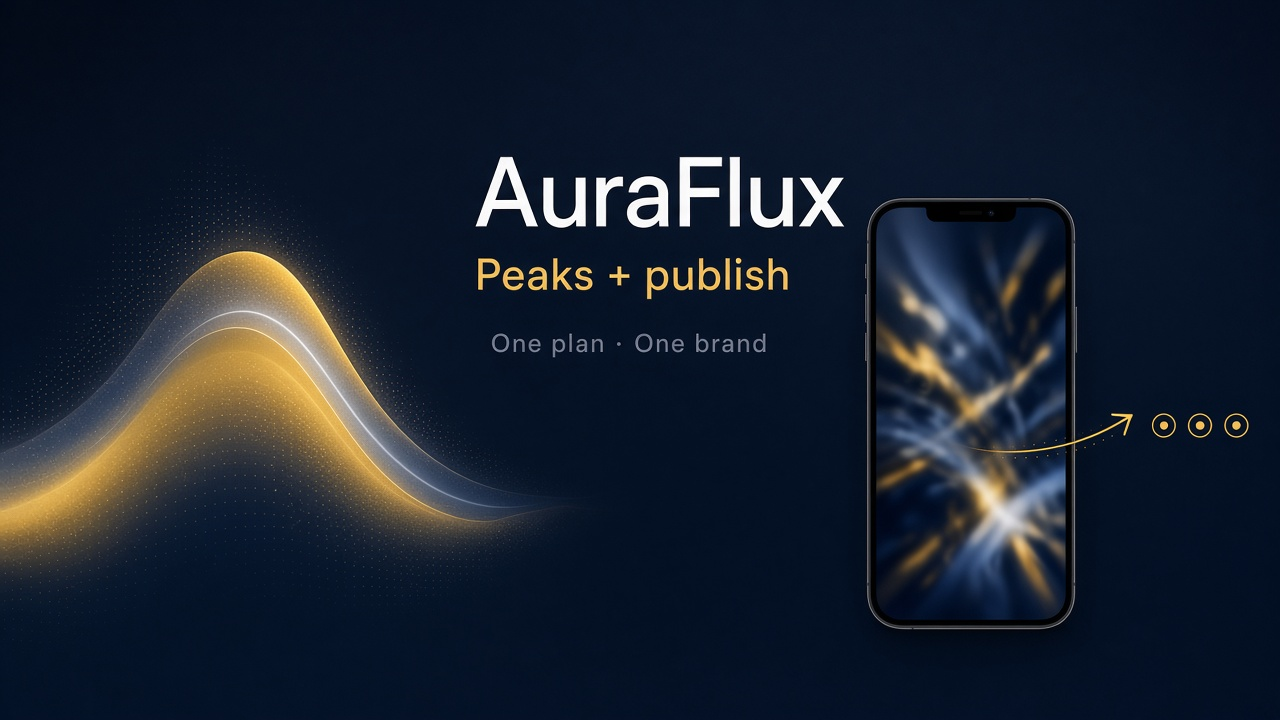
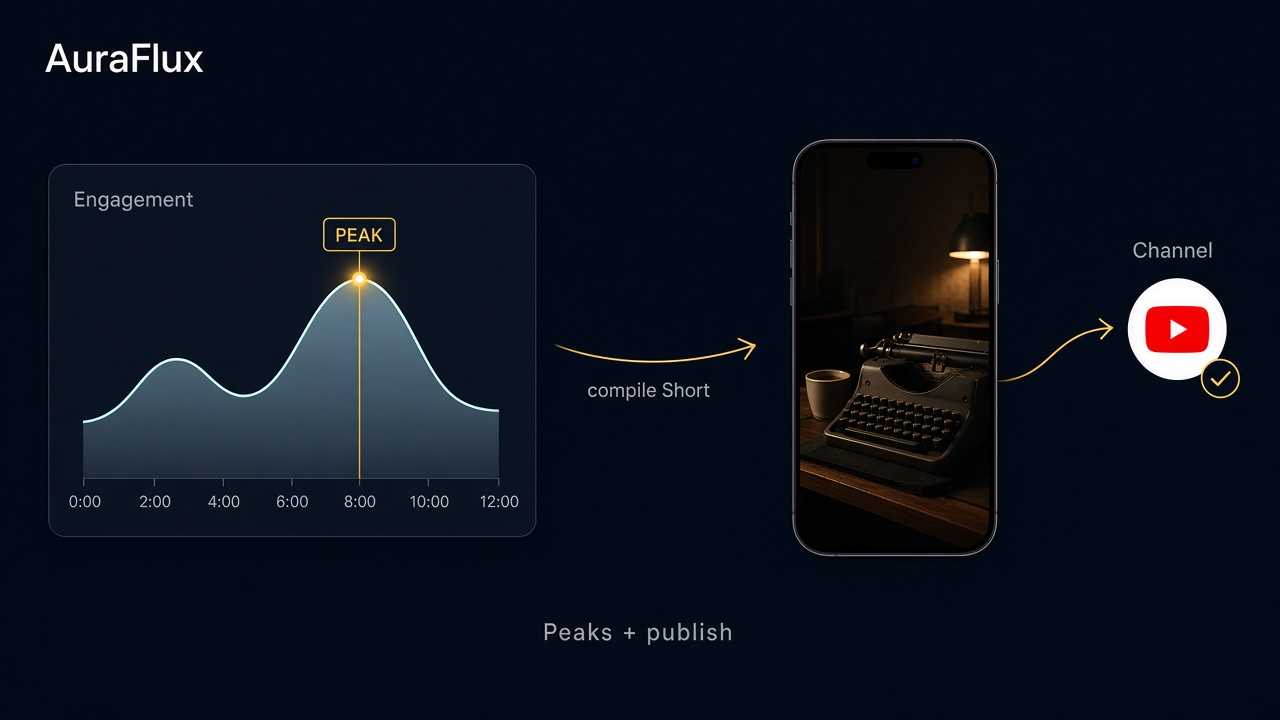
content(marketing): plan graphic shows peak chart → channel publish [deploy]
Replace abstract wave art with Engagement peak → Short → YouTube channel story.

diff --git a/cloudflare/marketing/pages/pricing.html b/cloudflare/marketing/pages/pricing.html
@@ -140,7 +140,7 @@ ${FRAMER_NAV || FALLBACK_NAV}
 <div class="plans-wrap">
 <div class="plans">
   <div class="plan">
-    <img class="plan-img" src="/cf-assets/marketing/images/plan-operate.png" alt="AuraFlux plan">
+    <img class="plan-img" src="/images/plan-auraflux-peaks-publish.png" alt="AuraFlux Peaks + publish plan">
     <div class="plan-body">
       <div class="plan-name">AuraFlux</div>
       <div class="plan-title">Peaks + publish</div>

diff --git a/marketing/pages/pricing.html b/marketing/pages/pricing.html
@@ -140,7 +140,7 @@ ${FRAMER_NAV || FALLBACK_NAV}
 <div class="plans-wrap">
 <div class="plans">
   <div class="plan">
-    <img class="plan-img" src="/cf-assets/marketing/images/plan-operate.png" alt="AuraFlux plan">
+    <img class="plan-img" src="/images/plan-auraflux-peaks-publish.png" alt="AuraFlux Peaks + publish plan">
     <div class="plan-body">
       <div class="plan-name">AuraFlux</div>
       <div class="plan-title">Peaks + publish</div>

diff --git a/STATUS.md b/STATUS.md
@@ -2,7 +2,7 @@
 
 **Deploy Mode:** dev
 
-**Last Updated:** 2026-09-10 — Allow marketing plan PNG in git; ship Peaks+publish card art.
+**Last Updated:** 2026-09-10 — One-plan graphic: Engagement peak chart → Short → channel publish.
 
 
 
